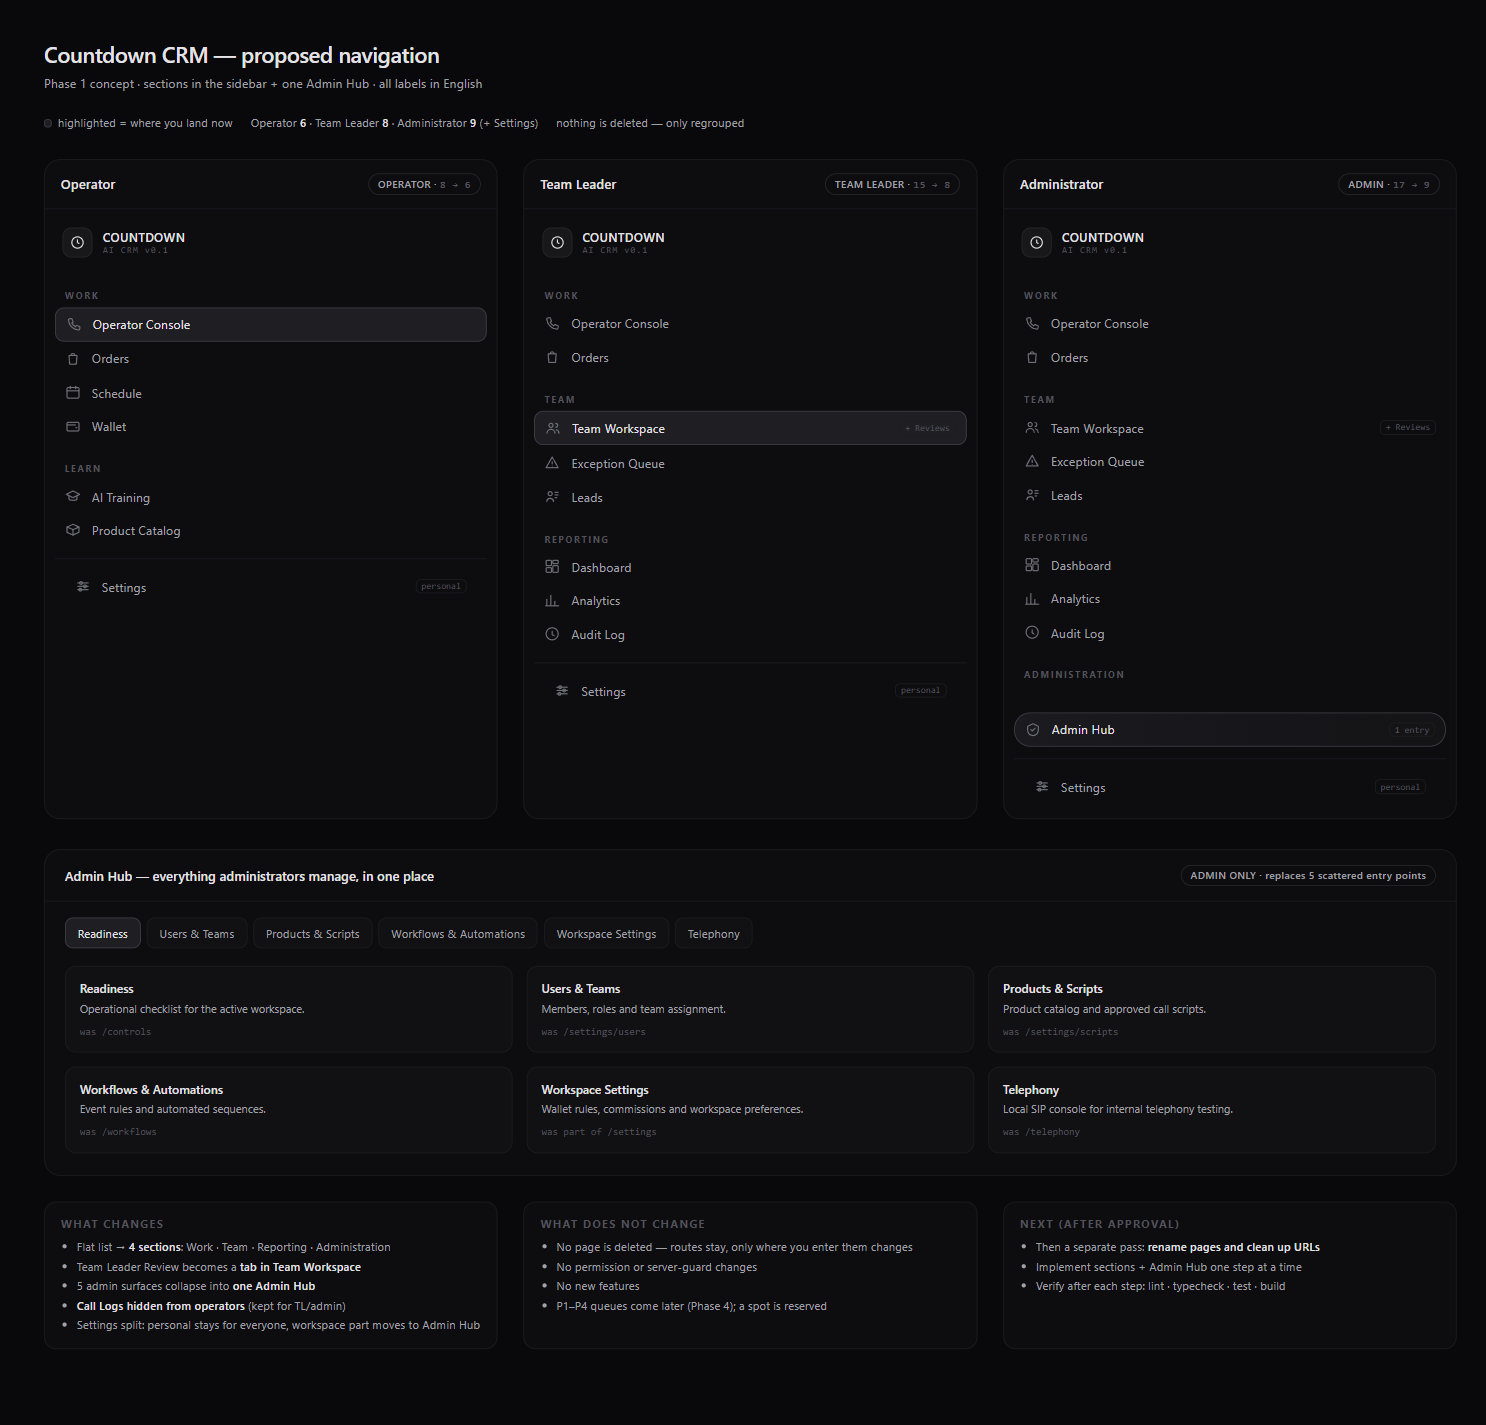
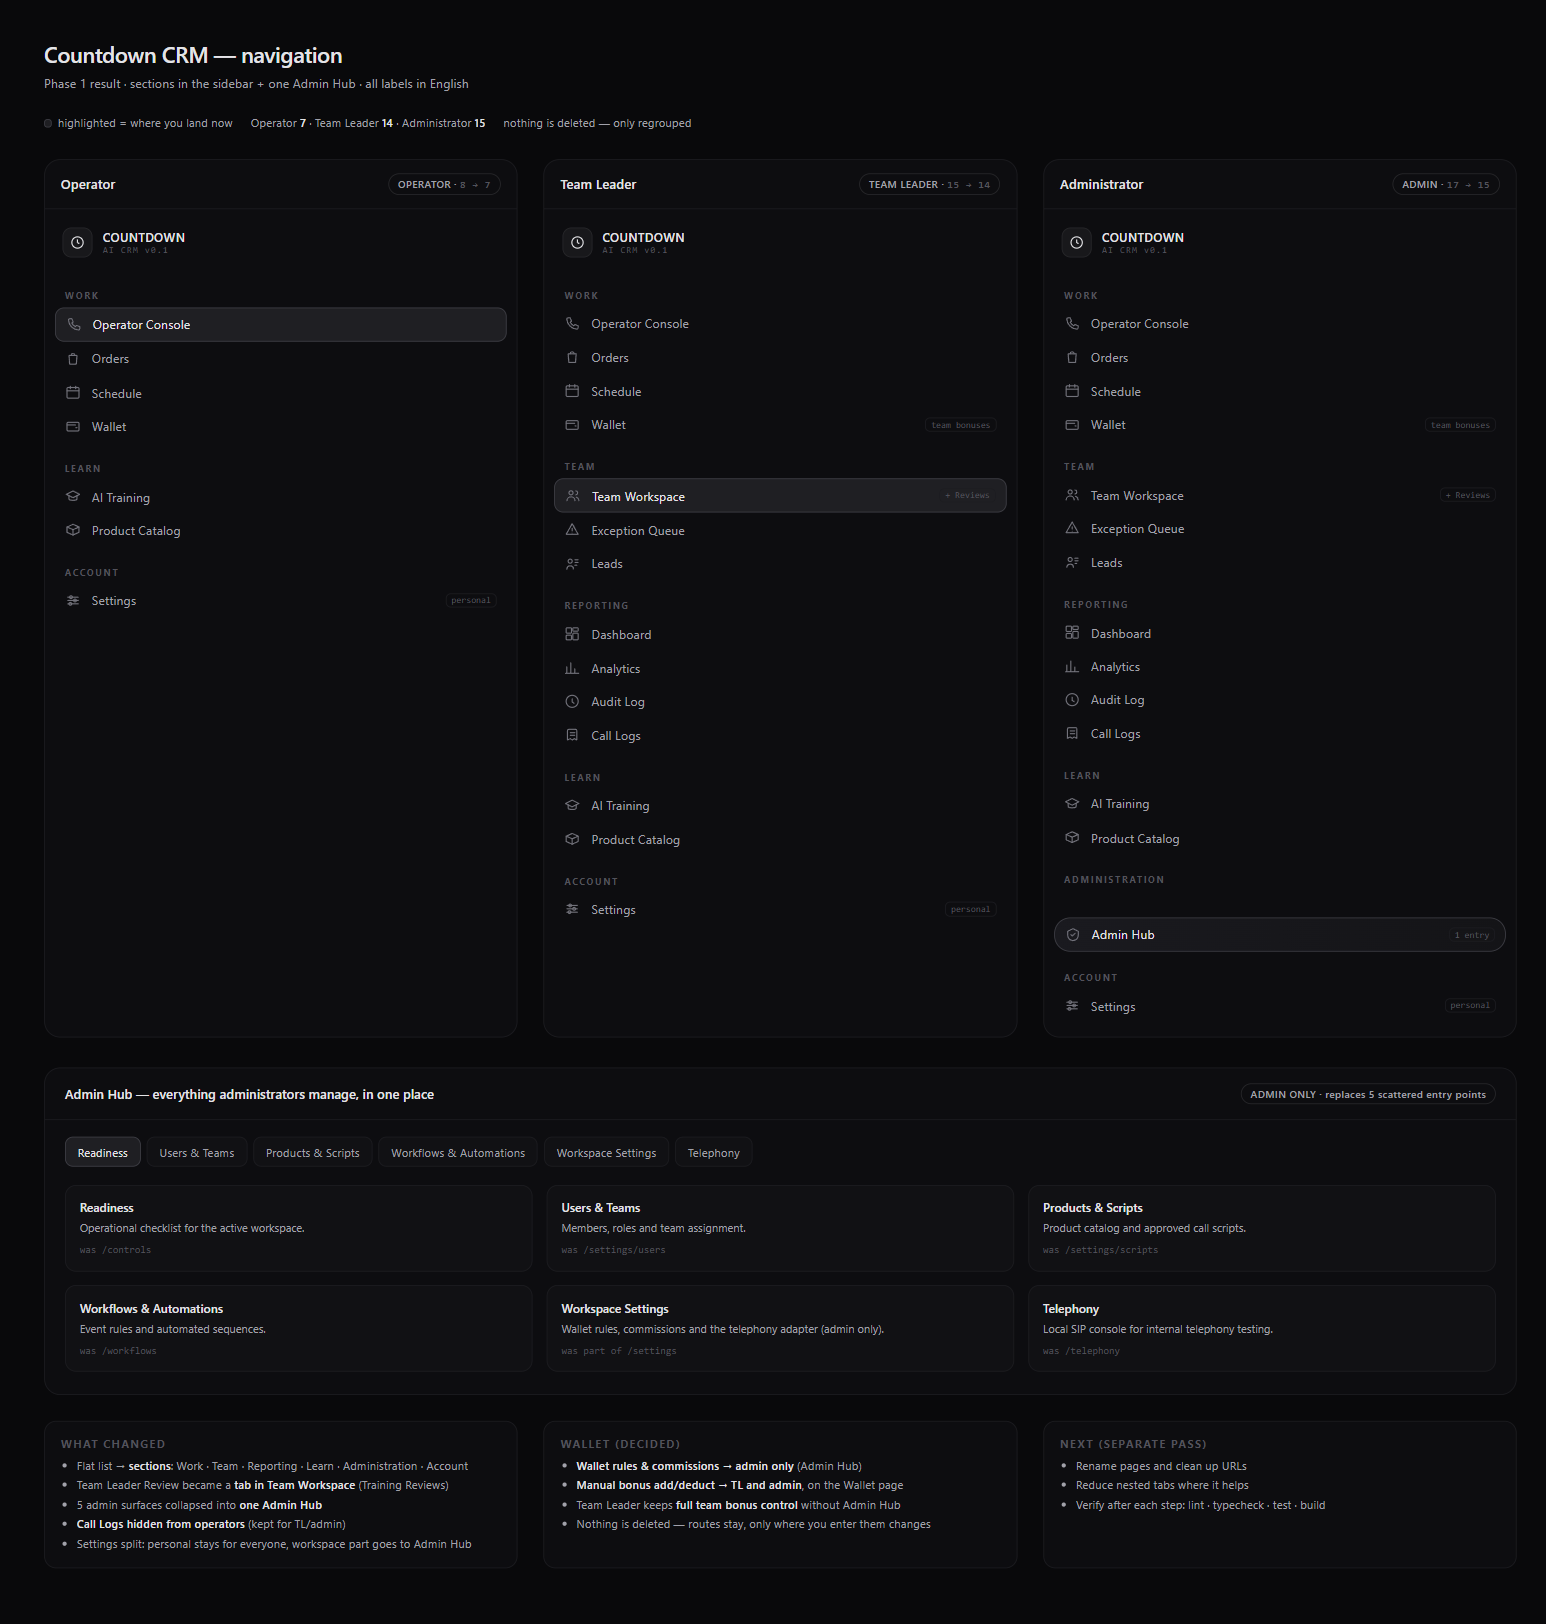
docs(phase-1): record implemented navigation + wallet decision; refresh mockup
Updates the Fáze 1 review with the implementation result and corrected per-role counts, marks Fáze 1 done in the roadmap and START_HERE, and regenerates the mockup to match the shipped menu.

diff --git a/docs/phase-1-menu-mockup.html b/docs/phase-1-menu-mockup.html
@@ -3,7 +3,7 @@
 <head>
 <meta charset="utf-8">
 <meta name="viewport" content="width=device-width, initial-scale=1">
-<title>Countdown CRM — Proposed navigation (Phase 1)</title>
+<title>Countdown CRM — navigation (Phase 1, implemented)</title>
 <style>
   :root{
     --bg:#09090b; --panel:#0d0d10; --panel2:#111114; --line:#27272a; --line2:#1c1c20;
@@ -66,11 +66,11 @@
 </head>
 <body>
 
-<h1>Countdown CRM — proposed navigation</h1>
-<p class="sub">Phase 1 concept · sections in the sidebar + one Admin Hub · all labels in English</p>
+<h1>Countdown CRM — navigation</h1>
+<p class="sub">Phase 1 result · sections in the sidebar + one Admin Hub · all labels in English</p>
 <div class="legend">
   <span><span class="dot"></span>highlighted = where you land now</span>
-  <span>Operator <b>6</b> · Team Leader <b>8</b> · Administrator <b>9</b> (+ Settings)</span>
+  <span>Operator <b>7</b> · Team Leader <b>14</b> · Administrator <b>15</b></span>
   <span>nothing is deleted — only regrouped</span>
 </div>
 
@@ -80,7 +80,7 @@
   <section class="board">
     <header>
       <h2>Operator</h2>
-      <span class="rolechip">OPERATOR · <span class="count">8 → 6</span></span>
+      <span class="rolechip">OPERATOR · <span class="count">8 → 7</span></span>
     </header>
     <div class="sidebar">
       <div class="brand">
@@ -98,9 +98,8 @@
       <div class="item"><svg viewBox="0 0 24 24"><path d="M12 4 2 9l10 5 10-5-10-5Z"/><path d="M6 11v5c0 1 3 2 6 2s6-1 6-2v-5"/></svg>AI Training</div>
       <div class="item"><svg viewBox="0 0 24 24"><path d="M3 8l9-4 9 4-9 4-9-4Z"/><path d="M3 8v8l9 4 9-4V8"/><path d="M12 12v8"/></svg>Product Catalog</div>
 
-      <div class="foot">
-        <div class="item"><svg viewBox="0 0 24 24"><path d="M4 7h16M4 12h16M4 17h16"/><circle cx="9" cy="7" r="2"/><circle cx="15" cy="12" r="2"/><circle cx="8" cy="17" r="2"/></svg>Settings <span class="tag">personal</span></div>
-      </div>
+      <div class="sec"><span>Account</span></div>
+      <div class="item"><svg viewBox="0 0 24 24"><path d="M4 7h16M4 12h16M4 17h16"/><circle cx="9" cy="7" r="2"/><circle cx="15" cy="12" r="2"/><circle cx="8" cy="17" r="2"/></svg>Settings <span class="tag">personal</span></div>
     </div>
   </section>
 
@@ -108,7 +107,7 @@
   <section class="board">
     <header>
       <h2>Team Leader</h2>
-      <span class="rolechip">TEAM LEADER · <span class="count">15 → 8</span></span>
+      <span class="rolechip">TEAM LEADER · <span class="count">15 → 14</span></span>
     </header>
     <div class="sidebar">
       <div class="brand">
@@ -119,6 +118,8 @@
       <div class="sec"><span>Work</span></div>
       <div class="item"><svg viewBox="0 0 24 24"><path d="M6 3h3l2 5-2 1.5a12 12 0 0 0 5.5 5.5L16 13l5 2v3a2 2 0 0 1-2 2A16 16 0 0 1 4 5a2 2 0 0 1 2-2Z"/></svg>Operator Console</div>
       <div class="item"><svg viewBox="0 0 24 24"><path d="M6 7h12l-1 13H7L6 7Z"/><path d="M9 7a3 3 0 0 1 6 0"/></svg>Orders</div>
+      <div class="item"><svg viewBox="0 0 24 24"><rect x="3" y="5" width="18" height="16" rx="2"/><path d="M3 10h18M8 3v4M16 3v4"/></svg>Schedule</div>
+      <div class="item"><svg viewBox="0 0 24 24"><rect x="3" y="6" width="18" height="13" rx="2"/><path d="M3 10h13M16 14h2"/></svg>Wallet <span class="tag">team bonuses</span></div>
 
       <div class="sec"><span>Team</span></div>
       <div class="item active"><svg viewBox="0 0 24 24"><circle cx="9" cy="8" r="3"/><path d="M3 20a6 6 0 0 1 12 0"/><path d="M16 5a3 3 0 0 1 0 6M21 20a6 6 0 0 0-4-5.6"/></svg>Team Workspace <span class="tag">+ Reviews</span></div>
@@ -129,10 +130,14 @@
       <div class="item"><svg viewBox="0 0 24 24"><rect x="3" y="3" width="8" height="8" rx="1.5"/><rect x="13" y="3" width="8" height="5" rx="1.5"/><rect x="13" y="11" width="8" height="10" rx="1.5"/><rect x="3" y="14" width="8" height="7" rx="1.5"/></svg>Dashboard</div>
       <div class="item"><svg viewBox="0 0 24 24"><path d="M4 20V10M10 20V4M16 20v-7M22 20H2"/></svg>Analytics</div>
       <div class="item"><svg viewBox="0 0 24 24"><path d="M12 8v5l3 2"/><circle cx="12" cy="12" r="9"/></svg>Audit Log</div>
+      <div class="item"><svg viewBox="0 0 24 24"><path d="M8 4h9a2 2 0 0 1 2 2v14l-4-2-3 2-3-2-4 2V6a2 2 0 0 1 2-2Z"/><path d="M9 9h7M9 13h7"/></svg>Call Logs</div>
 
-      <div class="foot">
-        <div class="item"><svg viewBox="0 0 24 24"><path d="M4 7h16M4 12h16M4 17h16"/><circle cx="9" cy="7" r="2"/><circle cx="15" cy="12" r="2"/><circle cx="8" cy="17" r="2"/></svg>Settings <span class="tag">personal</span></div>
-      </div>
+      <div class="sec"><span>Learn</span></div>
+      <div class="item"><svg viewBox="0 0 24 24"><path d="M12 4 2 9l10 5 10-5-10-5Z"/><path d="M6 11v5c0 1 3 2 6 2s6-1 6-2v-5"/></svg>AI Training</div>
+      <div class="item"><svg viewBox="0 0 24 24"><path d="M3 8l9-4 9 4-9 4-9-4Z"/><path d="M3 8v8l9 4 9-4V8"/><path d="M12 12v8"/></svg>Product Catalog</div>
+
+      <div class="sec"><span>Account</span></div>
+      <div class="item"><svg viewBox="0 0 24 24"><path d="M4 7h16M4 12h16M4 17h16"/><circle cx="9" cy="7" r="2"/><circle cx="15" cy="12" r="2"/><circle cx="8" cy="17" r="2"/></svg>Settings <span class="tag">personal</span></div>
     </div>
   </section>
 
@@ -140,7 +145,7 @@
   <section class="board">
     <header>
       <h2>Administrator</h2>
-      <span class="rolechip">ADMIN · <span class="count">17 → 9</span></span>
+      <span class="rolechip">ADMIN · <span class="count">17 → 15</span></span>
     </header>
     <div class="sidebar">
       <div class="brand">
@@ -151,6 +156,8 @@
       <div class="sec"><span>Work</span></div>
       <div class="item"><svg viewBox="0 0 24 24"><path d="M6 3h3l2 5-2 1.5a12 12 0 0 0 5.5 5.5L16 13l5 2v3a2 2 0 0 1-2 2A16 16 0 0 1 4 5a2 2 0 0 1 2-2Z"/></svg>Operator Console</div>
       <div class="item"><svg viewBox="0 0 24 24"><path d="M6 7h12l-1 13H7L6 7Z"/><path d="M9 7a3 3 0 0 1 6 0"/></svg>Orders</div>
+      <div class="item"><svg viewBox="0 0 24 24"><rect x="3" y="5" width="18" height="16" rx="2"/><path d="M3 10h18M8 3v4M16 3v4"/></svg>Schedule</div>
+      <div class="item"><svg viewBox="0 0 24 24"><rect x="3" y="6" width="18" height="13" rx="2"/><path d="M3 10h13M16 14h2"/></svg>Wallet <span class="tag">team bonuses</span></div>
 
       <div class="sec"><span>Team</span></div>
       <div class="item"><svg viewBox="0 0 24 24"><circle cx="9" cy="8" r="3"/><path d="M3 20a6 6 0 0 1 12 0"/><path d="M16 5a3 3 0 0 1 0 6M21 20a6 6 0 0 0-4-5.6"/></svg>Team Workspace <span class="tag">+ Reviews</span></div>
@@ -161,13 +168,17 @@
       <div class="item"><svg viewBox="0 0 24 24"><rect x="3" y="3" width="8" height="8" rx="1.5"/><rect x="13" y="3" width="8" height="5" rx="1.5"/><rect x="13" y="11" width="8" height="10" rx="1.5"/><rect x="3" y="14" width="8" height="7" rx="1.5"/></svg>Dashboard</div>
       <div class="item"><svg viewBox="0 0 24 24"><path d="M4 20V10M10 20V4M16 20v-7M22 20H2"/></svg>Analytics</div>
       <div class="item"><svg viewBox="0 0 24 24"><path d="M12 8v5l3 2"/><circle cx="12" cy="12" r="9"/></svg>Audit Log</div>
+      <div class="item"><svg viewBox="0 0 24 24"><path d="M8 4h9a2 2 0 0 1 2 2v14l-4-2-3 2-3-2-4 2V6a2 2 0 0 1 2-2Z"/><path d="M9 9h7M9 13h7"/></svg>Call Logs</div>
+
+      <div class="sec"><span>Learn</span></div>
+      <div class="item"><svg viewBox="0 0 24 24"><path d="M12 4 2 9l10 5 10-5-10-5Z"/><path d="M6 11v5c0 1 3 2 6 2s6-1 6-2v-5"/></svg>AI Training</div>
+      <div class="item"><svg viewBox="0 0 24 24"><path d="M3 8l9-4 9 4-9 4-9-4Z"/><path d="M3 8v8l9 4 9-4V8"/><path d="M12 12v8"/></svg>Product Catalog</div>
 
       <div class="sec"><span>Administration</span></div>
       <div class="item hub"><svg viewBox="0 0 24 24"><path d="M12 3l8 4v5c0 5-3.4 8.3-8 9-4.6-.7-8-4-8-9V7l8-4Z"/><path d="M9 12l2 2 4-4"/></svg>Admin Hub <span class="tag">1 entry</span></div>
 
-      <div class="foot">
-        <div class="item"><svg viewBox="0 0 24 24"><path d="M4 7h16M4 12h16M4 17h16"/><circle cx="9" cy="7" r="2"/><circle cx="15" cy="12" r="2"/><circle cx="8" cy="17" r="2"/></svg>Settings <span class="tag">personal</span></div>
-      </div>
+      <div class="sec"><span>Account</span></div>
+      <div class="item"><svg viewBox="0 0 24 24"><path d="M4 7h16M4 12h16M4 17h16"/><circle cx="9" cy="7" r="2"/><circle cx="15" cy="12" r="2"/><circle cx="8" cy="17" r="2"/></svg>Settings <span class="tag">personal</span></div>
     </div>
   </section>
 
@@ -210,7 +221,7 @@
     </div>
     <div class="card">
       <h3>Workspace Settings</h3>
-      <p>Wallet rules, commissions and workspace preferences.</p>
+      <p>Wallet rules, commissions and the telephony adapter (admin only).</p>
       <code>was part of /settings</code>
     </div>
     <div class="card">
@@ -223,29 +234,29 @@
 
 <footer>
   <div class="note">
-    <h4>What changes</h4>
+    <h4>What changed</h4>
     <ul>
-      <li>Flat list → <b>4 sections</b>: Work · Team · Reporting · Administration</li>
-      <li>Team Leader Review becomes a <b>tab in Team Workspace</b></li>
-      <li>5 admin surfaces collapse into <b>one Admin Hub</b></li>
+      <li>Flat list → <b>sections</b>: Work · Team · Reporting · Learn · Administration · Account</li>
+      <li>Team Leader Review became a <b>tab in Team Workspace</b> (Training Reviews)</li>
+      <li>5 admin surfaces collapsed into <b>one Admin Hub</b></li>
       <li><b>Call Logs hidden from operators</b> (kept for TL/admin)</li>
-      <li>Settings split: personal stays for everyone, workspace part moves to Admin Hub</li>
+      <li>Settings split: personal stays for everyone, workspace part goes to Admin Hub</li>
     </ul>
   </div>
   <div class="note">
-    <h4>What does NOT change</h4>
+    <h4>Wallet (decided)</h4>
     <ul>
-      <li>No page is deleted — routes stay, only where you enter them changes</li>
-      <li>No permission or server-guard changes</li>
-      <li>No new features</li>
-      <li>P1–P4 queues come later (Phase 4); a spot is reserved</li>
+      <li><b>Wallet rules &amp; commissions → admin only</b> (Admin Hub)</li>
+      <li><b>Manual bonus add/deduct → TL and admin</b>, on the Wallet page</li>
+      <li>Team Leader keeps <b>full team bonus control</b> without Admin Hub</li>
+      <li>Nothing is deleted — routes stay, only where you enter them changes</li>
     </ul>
   </div>
   <div class="note">
-    <h4>Next (after approval)</h4>
+    <h4>Next (separate pass)</h4>
     <ul>
-      <li>Then a separate pass: <b>rename pages and clean up URLs</b></li>
-      <li>Implement sections + Admin Hub one step at a time</li>
+      <li>Rename pages and clean up URLs</li>
+      <li>Reduce nested tabs where it helps</li>
       <li>Verify after each step: lint · typecheck · test · build</li>
     </ul>
   </div>

diff --git a/docs/PHASE_1_NAVIGATION_REVIEW.md b/docs/PHASE_1_NAVIGATION_REVIEW.md
@@ -1,6 +1,6 @@
 # Fáze 1 — Revize navigace a návrh Admin Hubu
 
-**Typ:** návrh k odsouhlasení (před implementací).
+**Typ:** návrh k odsouhlasení → **implementováno** (12. 10. 2026).
 **Datum:** 12. 10. 2026.
 **Metoda:** podle pravidel projektu (AGENTS, bod 4) — u každé plochy zjišťujeme roli a četnost,
 rozhodujeme ponechat / sloučit / skrýt / odstranit, řadíme podle důležitosti a zvažujeme
@@ -188,3 +188,47 @@ Workflows & Automations · Workspace Settings · Telephony.
 8. Ověření po každém kroku: `lint` · `typecheck` · `test` · `build`.
 
 **Samostatný krok později:** revize názvů stránek a URL adres (PM se nelíbí současné názvy).
+
+---
+
+## 8. Výsledek implementace (12. 10. 2026)
+
+Implementováno ve dvou commitech (`c93b62f` navigace, `e35e0bd` rozdělení Settings). Po každém kroku
+proběhlo ověření: `lint` · `typecheck` · `test` (815/815) · `build` — vše zelené.
+
+**Oprava oproti původnímu návrhu:** mockup u Team Leadera a admina omylem vynechal `Wallet`,
+`Schedule`, `AI Training`, `Product Catalog` a `Call Logs`. V implementaci zůstaly, protože je role
+dnes používají (např. měsíční uzávěrka Team Leadera je na `/wallet`). **Nic se neskrývá** — mění se
+jen seskupení a vstupní body, proto jsou reálné počty vyšší než původní odhad.
+
+| Role | Před | Po |
+|---|---|---|
+| Operátor | 8 | **7** |
+| Team Leader | 15 | **14** |
+| Administrátor | 17 | **15** |
+
+### Skutečné cílové menu
+
+**Operator (7):** Work → Operator Console · Orders · Schedule · Wallet; Learn → AI Training ·
+Product Catalog; Account → Settings.
+
+**Team Leader (14):** jako operátor, navíc Team → Team Workspace (+ záložka Training Reviews) ·
+Exception Queue · Leads; Reporting → Dashboard · Analytics · Audit Log · Call Logs.
+
+**Administrator (15):** jako Team Leader + Administration → **Admin Hub** (`/admin`).
+
+**Admin Hub (`/admin`, jen admin):** Readiness (`/controls`) · Users & Teams (`/settings/users`) ·
+Products & Scripts (`/settings/scripts`) · Workflows & Automations (`/workflows`) ·
+Workspace Settings (`/admin/settings`) · Telephony (`/telephony`).
+
+### Rozhodnutí o walletu (PM, 12. 10. 2026)
+
+- **Wallet rules & commissions = jen admin** → v Admin Hubu (`/admin/settings`).
+- **Ruční připisování/odečítání bonusů = TL i admin** → na `/wallet` (`canManage`), beze změny.
+- Team Leader tak má plnou kontrolu nad bonusy svého týmu, ale **Admin Hub nevidí a nepotřebuje**.
+
+### Co zůstalo beze změny
+
+- Žádná routa se nemaže ani nepřesouvá (kromě vzniku nových `/admin` a `/admin/settings`).
+- Nemění se práva ani serverové hlídání — jen viditelnost a vstupní body.
+- Názvy stránek a URL adresy = **samostatný krok až později** (odloženo).

diff --git a/START_HERE.md b/START_HERE.md
@@ -25,7 +25,7 @@ Není to obecné „AI CRM pro každého“ ani sbírka náhodných obrazovek. J
 
 Projekt má rozsáhlou modulární kostru, kterou průběžně stabilizujeme a vylepšujeme. Nejde o tlak na rychlé dokončení nebo prodej MVP:
 
-- **Roadmapa:** Další fáze práce (Fáze 0–7) jsou v [docs/ROADMAP.md](docs/ROADMAP.md). **Fáze 0 (pročištění) je hotová**; aktuálně jsme na začátku **Fáze 1 — sjednocení navigace a Admin Hub**.
+- **Roadmapa:** Další fáze práce (Fáze 0–7) jsou v [docs/ROADMAP.md](docs/ROADMAP.md). **Fáze 0 (pročištění) i Fáze 1 (navigace + Admin Hub) jsou hotové**; aktuálně jsme na začátku **Fáze 2 — Role-based UX pass**.
 - **Testy:** 815 testů ve 171 souborech prochází; `lint`, `typecheck` i `build` jsou zelené.
 - **Migrace:** 128 souborů, **0 duplicit** — kolize verze `20261007140000` byla opravena 11. 10. Kontrolní skript ale stále hlásí zastaralé „ALL 127 MIGRATIONS“ a duplicity sám nekontroluje.
 - **P1–P4:** Pravidla 24h cooldownu pro faily, retence P3 po 21 dnech a záchrany zásilek v P4 jsou v databázové logice; přehled front v UI zatím chybí.
@@ -34,6 +34,7 @@ Projekt má rozsáhlou modulární kostru, kterou průběžně stabilizujeme a v
 - **Objednávky:** `/orders` už nabízí Kanban i tabulku.
 - **Telefonie:** **Odložena na neurčito.** Žádné zbytečné výdaje na Telnyx ani složité VoIP nastavování.
 - **Pročištění (Fáze 0):** hotovo — odstraněny slepé routy, blueprints, custom schema i kanban/filtry u leadů; navigace neobsahuje mrtvé odkazy.
+- **Navigace (Fáze 1):** hotovo — levé menu rozdělené do sekcí (Work · Team · Reporting · Learn · Administration · Account), anglické názvy, Team Leader Review jako záložka v Team Workspace, Call Logs skryté operátorům a jedna položka **Admin Hub** (`/admin`) pro admina. Detaily: [docs/PHASE_1_NAVIGATION_REVIEW.md](docs/PHASE_1_NAVIGATION_REVIEW.md).
 
 ## Jak chápat P1–P4
 

diff --git a/docs/ROADMAP.md b/docs/ROADMAP.md
@@ -43,7 +43,7 @@ Stav: ✅ hotovo · 🔄 probíhá · ⏳ čeká
 
 **Ověření:** maximálně jeden Admin Hub; u každé položky je jasné „kdo ji používá a proč“; základní správa do 3 kliknutí.
 
-**Stav:** ⏳ čeká.
+**Stav:** ✅ hotovo (12. 10. 2026). Menu je rozdělené do sekcí Work · Team · Reporting · Learn · Administration · Account, všechny názvy jsou anglicky, Team Leader Review je záložkou v Team Workspace, Call Logs je skryté operátorům a správa je v jednom Admin Hubu (`/admin`) pro admina. Detaily a rozhodnutí: [PHASE_1_NAVIGATION_REVIEW.md](PHASE_1_NAVIGATION_REVIEW.md).
 
 ---
 
@@ -143,9 +143,7 @@ Stav: ✅ hotovo · 🔄 probíhá · ⏳ čeká
 
 ## Okamžitý další krok
 
-**Fáze 0 je hotová.** Pokračujeme **Fází 1 — Sjednocení navigace a Admin Hub**.
+**Fáze 0 a Fáze 1 jsou hotové.** Pokračujeme **Fází 2 — Role-based UX pass**.
 
-První konkrétní krok Fáze 1: projít současných 17 položek navigace podle role a četnosti a rozdělit
-je na „ponechat / sloučit / skrýt / odstranit“, s cílem jednoho **Admin Hubu** místo roztroušených
-administrativních odkazů. Tento krok je designové rozhodnutí — nejdřív ho projít s PM, teprve pak
-implementovat.
+Samostatný krok, který jsme si odložili: revize **názvů stránek a URL adres** (PM se nelíbí současné
+názvy). Teprve po něm dává smysl řešit další sjednocování obrazovek.
